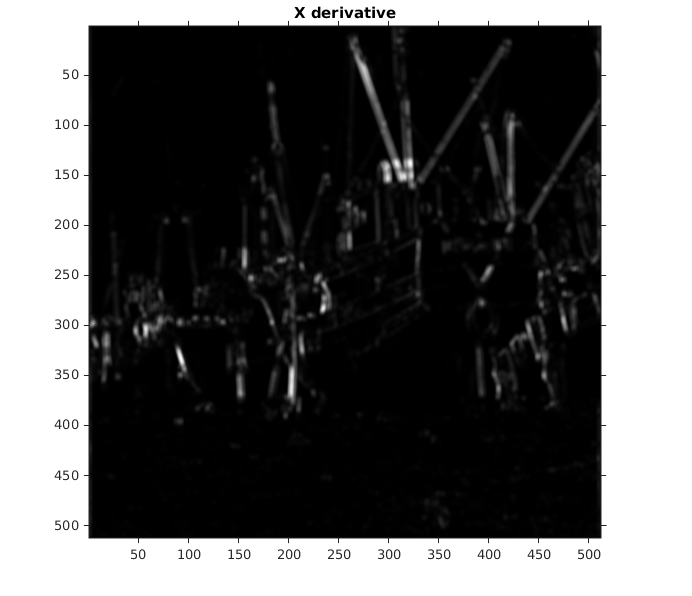
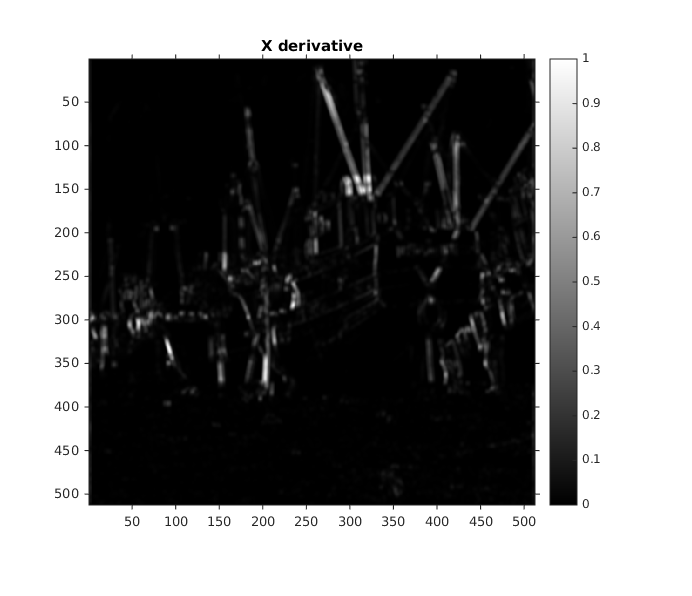
Add Report finalized for Q2

diff --git a/assig-3/2/report/myHarrisCornerDetector.html b/assig-3/2/report/myHarrisCornerDetector.html
@@ -72,12 +72,12 @@ table td { padding:7px 5px; text-align:left; vertical-align:top; border:1px soli
 
     imstruct = load(<span class="string">'../data/boat.mat'</span>);
     img=imstruct.imageOrig; <span class="comment">% Step 0: Read Image</span>
-    figure, imshow(mat2gray(img));title(<span class="string">'Original Image'</span>);
+    figure, imshow(mat2gray(img)),colorbar;title(<span class="string">'Original Image'</span>);
     I=im2double(img);
     I = I/max(max(I));
     G = fspecial(<span class="string">'gaussian'</span>, [3 3] ,1);
     I = imfilter(I, G, <span class="string">'same'</span>);
-    figure, imshow(mat2gray(I)),title(<span class="string">'Smoothened Image after Gaussion Filter'</span>);
+    figure, imshow(mat2gray(I)),colorbar;title(<span class="string">'Smoothened Image after Gaussion Filter'</span>);
 <span class="comment">%     dx = [-1 0 1; -1 0 1; -1 0 1]; % image derivatives</span>
 <span class="comment">%     dy = dx';</span>
 <span class="comment">%     Ix = imfilter(I, dx);    % Step 1: Compute the image derivatives Ix and Iy</span>
@@ -86,11 +86,11 @@ table td { padding:7px 5px; text-align:left; vertical-align:top; border:1px soli
 
     g = fspecial(<span class="string">'gaussian'</span>, [6 6] ,2); <span class="comment">% Step 2: Generate Gaussian filter 'g' of size 9x9 and standard deviation Sigma=2.</span>
     Ix2 = imfilter(Ix.^2, g, <span class="string">'same'</span>); <span class="comment">% Step 3: Smooth the squared image derivatives to obtain Ix2, Iy2 and IxIy</span>
-    figure, imshow(mat2gray(Ix2));title(<span class="string">'X derivative'</span>);
+    figure, imshow(mat2gray(Ix2)),colorbar;title(<span class="string">'X derivative'</span>);
     Iy2 = imfilter(Iy.^2, g, <span class="string">'same'</span>);
-    figure, imshow(mat2gray(Iy2));title(<span class="string">'Y derivative'</span>);
+    figure, imshow(mat2gray(Iy2)),colorbar;title(<span class="string">'Y derivative'</span>);
     IxIy = imfilter(Ix.*Iy, g, <span class="string">'same'</span>);
-    figure, imshow(mat2gray(IxIy)); <span class="comment">%Display the images obtained in different steps</span>
+    figure, imshow(mat2gray(IxIy)),colorbar,title(<span class="string">'Derivative Product Ix*Iy'</span>); <span class="comment">%Display the images obtained in different steps</span>
 
     [r c]=size(Ix2);
     R = zeros(r, c);
@@ -119,11 +119,11 @@ table td { padding:7px 5px; text-align:left; vertical-align:top; border:1px soli
     superposed = zeros(r, c);
     cornerMeasure = (R&gt;0.5)*250;
     superposed = img+cornerMeasure;
-    figure, imshow(mat2gray(E1));title(<span class="string">'Eigenvalue 1'</span>); <span class="comment">% display result</span>
-    figure, imshow(mat2gray(E2));title(<span class="string">'Eigenvalue 2'</span>);
+    figure, imshow(mat2gray(E1)),colorbar;title(<span class="string">'Eigenvalue 1'</span>); <span class="comment">% display result</span>
+    figure, imshow(mat2gray(E2)),colorbar;title(<span class="string">'Eigenvalue 2'</span>);
 
-    figure, imshow(mat2gray(cornerMeasure));title(<span class="string">'Corner Measure'</span>); <span class="comment">% display result</span>
-    figure, imshow(mat2gray(superposed));title(<span class="string">'Superposed'</span>);
+    figure, imshow(mat2gray(cornerMeasure)),colorbar;title(<span class="string">'Corner Measure'</span>); <span class="comment">% display result</span>
+    figure, imshow(mat2gray(superposed)),colorbar;title(<span class="string">'Superposed'</span>);
 <span class="comment">%     % Part 3 - Select for E and R the 81 most salient points</span>
 <span class="comment">%     % Get the coordinates with maximum cornerness responses</span>
 <span class="comment">%     % Write a function to obtain the 81 most salient points</span>
@@ -155,12 +155,12 @@ function [] = myHarrisCornerDetector()
 
     imstruct = load('../data/boat.mat');
     img=imstruct.imageOrig; % Step 0: Read Image
-    figure, imshow(mat2gray(img));title('Original Image');
+    figure, imshow(mat2gray(img)),colorbar;title('Original Image');
     I=im2double(img);
     I = I/max(max(I));
     G = fspecial('gaussian', [3 3] ,1);
     I = imfilter(I, G, 'same');
-    figure, imshow(mat2gray(I)),title('Smoothened Image after Gaussion Filter');
+    figure, imshow(mat2gray(I)),colorbar;title('Smoothened Image after Gaussion Filter');
 %     dx = [-1 0 1; -1 0 1; -1 0 1]; % image derivatives
 %     dy = dx';
 %     Ix = imfilter(I, dx);    % Step 1: Compute the image derivatives Ix and Iy
@@ -169,11 +169,11 @@ function [] = myHarrisCornerDetector()
     
     g = fspecial('gaussian', [6 6] ,2); % Step 2: Generate Gaussian filter 'g' of size 9x9 and standard deviation Sigma=2.
     Ix2 = imfilter(Ix.^2, g, 'same'); % Step 3: Smooth the squared image derivatives to obtain Ix2, Iy2 and IxIy
-    figure, imshow(mat2gray(Ix2));title('X derivative');
+    figure, imshow(mat2gray(Ix2)),colorbar;title('X derivative');
     Iy2 = imfilter(Iy.^2, g, 'same');
-    figure, imshow(mat2gray(Iy2));title('Y derivative');
+    figure, imshow(mat2gray(Iy2)),colorbar;title('Y derivative');
     IxIy = imfilter(Ix.*Iy, g, 'same');
-    figure, imshow(mat2gray(IxIy)); %Display the images obtained in different steps
+    figure, imshow(mat2gray(IxIy)),colorbar,title('Derivative Product Ix*Iy'); %Display the images obtained in different steps
 
     [r c]=size(Ix2);
     R = zeros(r, c);
@@ -202,11 +202,11 @@ function [] = myHarrisCornerDetector()
     superposed = zeros(r, c);
     cornerMeasure = (R>0.5)*250;
     superposed = img+cornerMeasure;
-    figure, imshow(mat2gray(E1));title('Eigenvalue 1'); % display result
-    figure, imshow(mat2gray(E2));title('Eigenvalue 2');
+    figure, imshow(mat2gray(E1)),colorbar;title('Eigenvalue 1'); % display result
+    figure, imshow(mat2gray(E2)),colorbar;title('Eigenvalue 2');
     
-    figure, imshow(mat2gray(cornerMeasure));title('Corner Measure'); % display result
-    figure, imshow(mat2gray(superposed));title('Superposed');
+    figure, imshow(mat2gray(cornerMeasure)),colorbar;title('Corner Measure'); % display result
+    figure, imshow(mat2gray(superposed)),colorbar;title('Superposed');
 %     % Part 3 - Select for E and R the 81 most salient points
 %     % Get the coordinates with maximum cornerness responses
 %     % Write a function to obtain the 81 most salient points

diff --git a/assig-3/2/code/myHarrisCornerDetector.m b/assig-3/2/code/myHarrisCornerDetector.m
@@ -4,12 +4,12 @@ function [] = myHarrisCornerDetector()
 
     imstruct = load('../data/boat.mat');
     img=imstruct.imageOrig; % Step 0: Read Image
-    figure, imshow(mat2gray(img));title('Original Image');
+    figure, imshow(mat2gray(img)),colorbar;title('Original Image');
     I=im2double(img);
     I = I/max(max(I));
     G = fspecial('gaussian', [3 3] ,1);
     I = imfilter(I, G, 'same');
-    figure, imshow(mat2gray(I)),title('Smoothened Image after Gaussion Filter');
+    figure, imshow(mat2gray(I)),colorbar;title('Smoothened Image after Gaussion Filter');
 %     dx = [-1 0 1; -1 0 1; -1 0 1]; % image derivatives
 %     dy = dx';
 %     Ix = imfilter(I, dx);    % Step 1: Compute the image derivatives Ix and Iy
@@ -18,11 +18,11 @@ function [] = myHarrisCornerDetector()
     
     g = fspecial('gaussian', [6 6] ,2); % Step 2: Generate Gaussian filter 'g' of size 9x9 and standard deviation Sigma=2.
     Ix2 = imfilter(Ix.^2, g, 'same'); % Step 3: Smooth the squared image derivatives to obtain Ix2, Iy2 and IxIy
-    figure, imshow(mat2gray(Ix2));title('X derivative');
+    figure, imshow(mat2gray(Ix2)),colorbar;title('X derivative');
     Iy2 = imfilter(Iy.^2, g, 'same');
-    figure, imshow(mat2gray(Iy2));title('Y derivative');
+    figure, imshow(mat2gray(Iy2)),colorbar;title('Y derivative');
     IxIy = imfilter(Ix.*Iy, g, 'same');
-    figure, imshow(mat2gray(IxIy)); %Display the images obtained in different steps
+    figure, imshow(mat2gray(IxIy)),colorbar,title('Derivative Product Ix*Iy'); %Display the images obtained in different steps
 
     [r c]=size(Ix2);
     R = zeros(r, c);
@@ -51,11 +51,11 @@ function [] = myHarrisCornerDetector()
     superposed = zeros(r, c);
     cornerMeasure = (R>0.5)*250;
     superposed = img+cornerMeasure;
-    figure, imshow(mat2gray(E1));title('Eigenvalue 1'); % display result
-    figure, imshow(mat2gray(E2));title('Eigenvalue 2');
+    figure, imshow(mat2gray(E1)),colorbar;title('Eigenvalue 1'); % display result
+    figure, imshow(mat2gray(E2)),colorbar;title('Eigenvalue 2');
     
-    figure, imshow(mat2gray(cornerMeasure));title('Corner Measure'); % display result
-    figure, imshow(mat2gray(superposed));title('Superposed');
+    figure, imshow(mat2gray(cornerMeasure)),colorbar;title('Corner Measure'); % display result
+    figure, imshow(mat2gray(superposed)),colorbar;title('Superposed');
 %     % Part 3 - Select for E and R the 81 most salient points
 %     % Get the coordinates with maximum cornerness responses
 %     % Write a function to obtain the 81 most salient points
